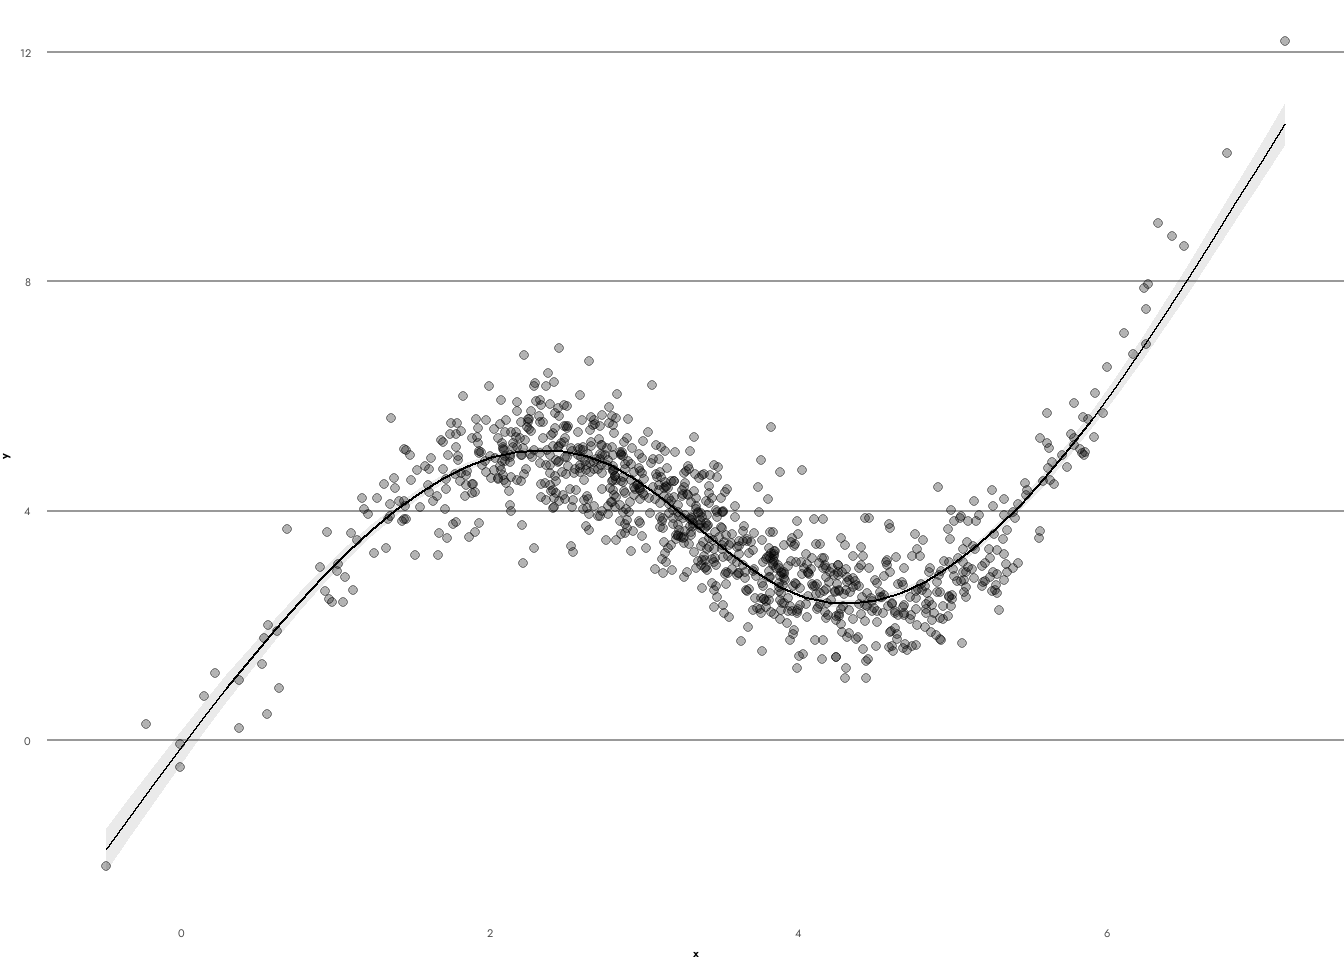
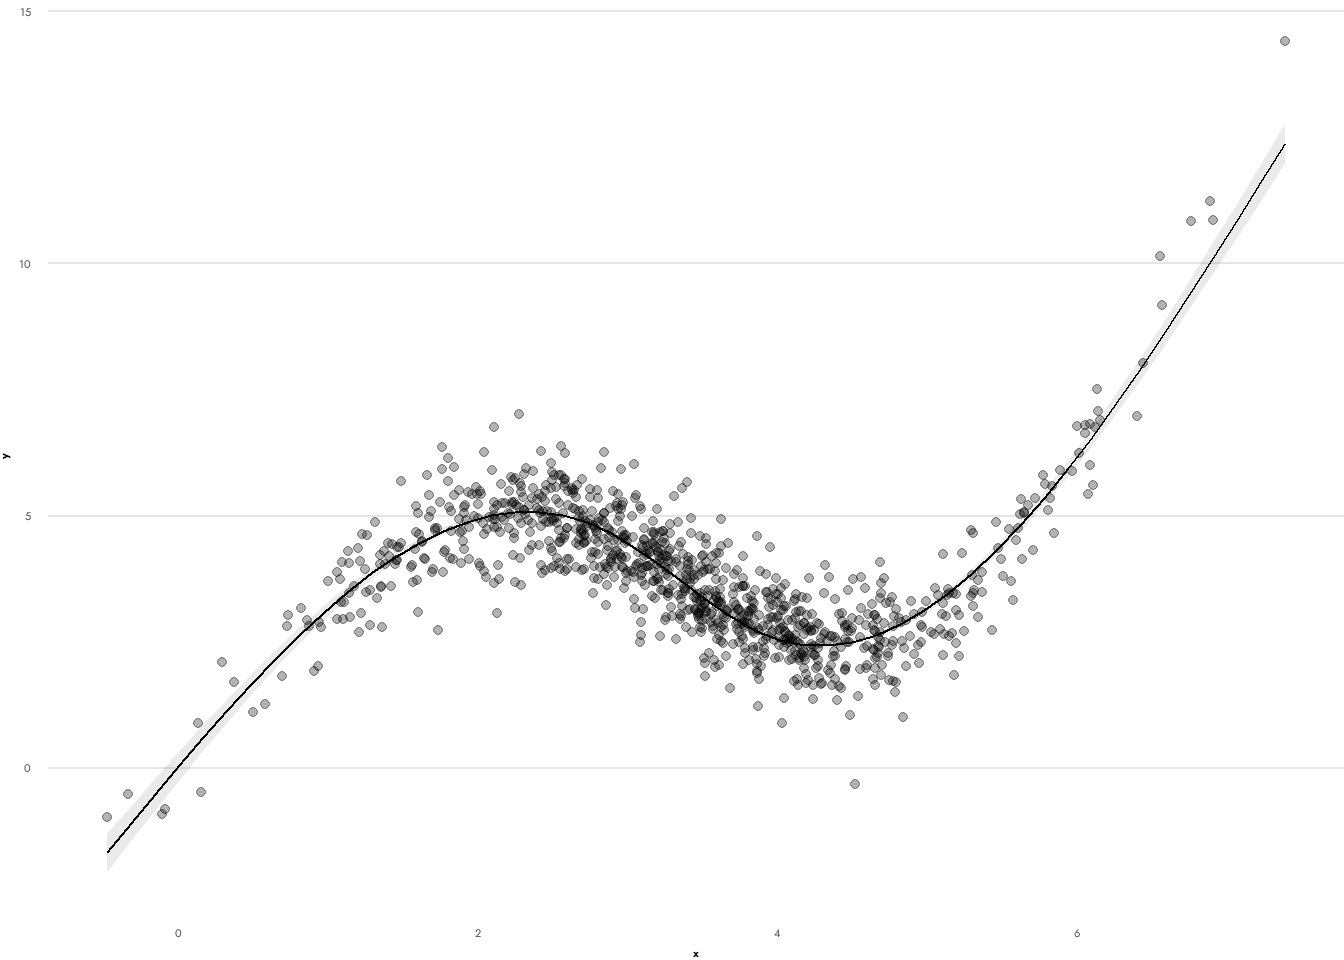
fix some stuff in chart types: too dark panel grid, some colors etc

Changed region(s): [[0.0312, 0.375, 1.0, 0.8125], [0.8438, 0.2188, 0.9062, 0.375], [0.0625, 0.8125, 0.125, 0.875]]

diff --git a/docs/chart_types.html b/docs/chart_types.html
@@ -328,13 +328,14 @@ Loading required package: showtextdb</code></pre>
 Bar plot work best with position dodge. The only thing to remember is to set the width right and add the position adjustment to any additional geoms used in the plot.</p>
 <div class="cell">
 <div class="sourceCode cell-code" id="cb7"><pre class="sourceCode r code-with-copy"><code class="sourceCode r"><span id="cb7-1"><a href="#cb7-1" aria-hidden="true" tabindex="-1"></a>bar_df<span class="sc">$</span>category_2 <span class="ot">&lt;-</span> <span class="fu">c</span>(<span class="fu">rep</span>(<span class="st">"a"</span>, <span class="dv">3</span>), <span class="fu">rep</span>(<span class="st">"b"</span>, <span class="dv">4</span>))</span>
-<span id="cb7-2"><a href="#cb7-2" aria-hidden="true" tabindex="-1"></a></span>
-<span id="cb7-3"><a href="#cb7-3" aria-hidden="true" tabindex="-1"></a>bar_df <span class="sc">%&gt;%</span></span>
-<span id="cb7-4"><a href="#cb7-4" aria-hidden="true" tabindex="-1"></a><span class="fu">ggplot</span>(<span class="fu">aes</span>(<span class="at">x =</span> category_2, <span class="at">y =</span> means, <span class="at">fill =</span> category)) <span class="sc">+</span></span>
-<span id="cb7-5"><a href="#cb7-5" aria-hidden="true" tabindex="-1"></a><span class="fu">geom_col</span>(<span class="at">width =</span> .<span class="dv">6</span>, <span class="at">position =</span> <span class="fu">position_dodge</span>(<span class="at">width =</span> .<span class="dv">6</span>)) <span class="sc">+</span></span>
-<span id="cb7-6"><a href="#cb7-6" aria-hidden="true" tabindex="-1"></a><span class="fu">geom_text</span>(<span class="fu">aes</span>(<span class="at">label =</span> means),<span class="at">position =</span> <span class="fu">position_dodge</span>(<span class="at">width =</span> .<span class="dv">6</span>), <span class="at">vjust =</span> <span class="sc">-</span><span class="dv">1</span>) <span class="sc">+</span></span>
-<span id="cb7-7"><a href="#cb7-7" aria-hidden="true" tabindex="-1"></a><span class="fu">scale_fill_manual</span>(<span class="at">values =</span> cbu_cat) <span class="sc">+</span></span>
-<span id="cb7-8"><a href="#cb7-8" aria-hidden="true" tabindex="-1"></a><span class="fu">theme_cbu</span>()</span></code><button title="Copy to Clipboard" class="code-copy-button"><i class="bi"></i></button></pre></div>
+<span id="cb7-2"><a href="#cb7-2" aria-hidden="true" tabindex="-1"></a>bar_df<span class="sc">$</span>category_3 <span class="ot">&lt;-</span> <span class="fu">c</span>(<span class="fu">rep</span>(<span class="fu">c</span>(<span class="st">"c"</span>, <span class="st">"d"</span>, <span class="st">"e"</span>), <span class="dv">2</span>), <span class="st">"f"</span>)</span>
+<span id="cb7-3"><a href="#cb7-3" aria-hidden="true" tabindex="-1"></a></span>
+<span id="cb7-4"><a href="#cb7-4" aria-hidden="true" tabindex="-1"></a>bar_df <span class="sc">%&gt;%</span></span>
+<span id="cb7-5"><a href="#cb7-5" aria-hidden="true" tabindex="-1"></a><span class="fu">ggplot</span>(<span class="fu">aes</span>(<span class="at">x =</span> category_2, <span class="at">y =</span> means, <span class="at">fill =</span> category_3)) <span class="sc">+</span></span>
+<span id="cb7-6"><a href="#cb7-6" aria-hidden="true" tabindex="-1"></a><span class="fu">geom_col</span>(<span class="at">width =</span> .<span class="dv">6</span>, <span class="at">position =</span> <span class="fu">position_dodge</span>(<span class="at">width =</span> .<span class="dv">6</span>)) <span class="sc">+</span></span>
+<span id="cb7-7"><a href="#cb7-7" aria-hidden="true" tabindex="-1"></a><span class="fu">geom_text</span>(<span class="fu">aes</span>(<span class="at">label =</span> means),<span class="at">position =</span> <span class="fu">position_dodge</span>(<span class="at">width =</span> .<span class="dv">6</span>), <span class="at">vjust =</span> <span class="sc">-</span><span class="dv">1</span>) <span class="sc">+</span></span>
+<span id="cb7-8"><a href="#cb7-8" aria-hidden="true" tabindex="-1"></a><span class="fu">scale_fill_manual</span>(<span class="at">values =</span> cbu_cat_1) <span class="sc">+</span></span>
+<span id="cb7-9"><a href="#cb7-9" aria-hidden="true" tabindex="-1"></a><span class="fu">theme_cbu</span>()</span></code><button title="Copy to Clipboard" class="code-copy-button"><i class="bi"></i></button></pre></div>
 <div class="cell-output-display">
 <div>
 <figure class="figure">
@@ -402,7 +403,8 @@ Option 2:</p>
 <span id="cb10-2"><a href="#cb10-2" aria-hidden="true" tabindex="-1"></a><span class="fu">ggplot</span>(<span class="fu">aes</span>(<span class="at">x =</span> <span class="fu">str_wrap</span>(item, <span class="dv">40</span>), <span class="at">y =</span> mean)) <span class="sc">+</span></span>
 <span id="cb10-3"><a href="#cb10-3" aria-hidden="true" tabindex="-1"></a><span class="fu">geom_col</span>(<span class="at">fill =</span> cbu_cat_1[<span class="dv">1</span>], <span class="at">width =</span> .<span class="dv">6</span>) <span class="sc">+</span></span>
 <span id="cb10-4"><a href="#cb10-4" aria-hidden="true" tabindex="-1"></a><span class="fu">geom_errorbar</span>(<span class="fu">aes</span>(<span class="at">x =</span> <span class="fu">str_wrap</span>(item, <span class="dv">40</span>), <span class="at">ymin =</span> mean <span class="sc">-</span> sd, <span class="at">ymax =</span> mean <span class="sc">+</span> sd),<span class="at">width =</span> .<span class="dv">2</span>) <span class="sc">+</span></span>
-<span id="cb10-5"><a href="#cb10-5" aria-hidden="true" tabindex="-1"></a><span class="fu">theme_cbu</span>()</span></code><button title="Copy to Clipboard" class="code-copy-button"><i class="bi"></i></button></pre></div>
+<span id="cb10-5"><a href="#cb10-5" aria-hidden="true" tabindex="-1"></a><span class="fu">theme_cbu</span>() <span class="sc">+</span></span>
+<span id="cb10-6"><a href="#cb10-6" aria-hidden="true" tabindex="-1"></a><span class="fu">theme</span>(<span class="at">panel.grid.major.y =</span> <span class="fu">element_line</span>(<span class="at">color =</span> <span class="st">"grey60"</span>, <span class="at">linewidth =</span> .<span class="dv">5</span>))</span></code><button title="Copy to Clipboard" class="code-copy-button"><i class="bi"></i></button></pre></div>
 <div class="cell-output-display">
 <div>
 <figure class="figure">
@@ -472,7 +474,7 @@ Option 2:</p>
 <span id="cb13-9"><a href="#cb13-9" aria-hidden="true" tabindex="-1"></a><span class="fu">geom_line</span>(<span class="at">linewidth =</span> <span class="fl">1.4</span>) <span class="sc">+</span></span>
 <span id="cb13-10"><a href="#cb13-10" aria-hidden="true" tabindex="-1"></a><span class="fu">scale_color_manual</span>(<span class="at">values =</span> cbu_cat_2) <span class="sc">+</span></span>
 <span id="cb13-11"><a href="#cb13-11" aria-hidden="true" tabindex="-1"></a><span class="fu">theme_cbu</span>() <span class="sc">+</span></span>
-<span id="cb13-12"><a href="#cb13-12" aria-hidden="true" tabindex="-1"></a><span class="fu">theme</span>(<span class="at">panel.grid.major.y =</span> <span class="fu">element_line</span>(<span class="at">color =</span> <span class="st">"grey60"</span>, <span class="at">linewidth =</span> .<span class="dv">5</span>))</span></code><button title="Copy to Clipboard" class="code-copy-button"><i class="bi"></i></button></pre></div>
+<span id="cb13-12"><a href="#cb13-12" aria-hidden="true" tabindex="-1"></a><span class="fu">theme</span>(<span class="at">panel.grid.major.y =</span> <span class="fu">element_line</span>(<span class="at">color =</span> <span class="st">"grey90"</span>, <span class="at">linewidth =</span> .<span class="dv">5</span>))</span></code><button title="Copy to Clipboard" class="code-copy-button"><i class="bi"></i></button></pre></div>
 <div class="cell-output-display">
 <div>
 <figure class="figure">
@@ -497,9 +499,9 @@ Option 2:</p>
 <span id="cb14-9"><a href="#cb14-9" aria-hidden="true" tabindex="-1"></a>df_scatter <span class="sc">%&gt;%</span></span>
 <span id="cb14-10"><a href="#cb14-10" aria-hidden="true" tabindex="-1"></a><span class="fu">ggplot</span>(<span class="fu">aes</span>(<span class="at">x =</span> x, <span class="at">y =</span> y, <span class="at">color =</span> cat)) <span class="sc">+</span></span>
 <span id="cb14-11"><a href="#cb14-11" aria-hidden="true" tabindex="-1"></a><span class="fu">geom_point</span>(<span class="at">alpha =</span> .<span class="dv">7</span>) <span class="sc">+</span></span>
-<span id="cb14-12"><a href="#cb14-12" aria-hidden="true" tabindex="-1"></a><span class="fu">scale_color_manual</span>(<span class="at">values =</span> cbu_cat_2[<span class="fu">c</span>(<span class="dv">2</span>,<span class="dv">4</span>)]) <span class="sc">+</span></span>
+<span id="cb14-12"><a href="#cb14-12" aria-hidden="true" tabindex="-1"></a><span class="fu">scale_color_manual</span>(<span class="at">values =</span> cbu_cat_2[<span class="fu">c</span>(<span class="dv">3</span>,<span class="dv">4</span>)]) <span class="sc">+</span></span>
 <span id="cb14-13"><a href="#cb14-13" aria-hidden="true" tabindex="-1"></a><span class="fu">theme_cbu</span>() <span class="sc">+</span></span>
-<span id="cb14-14"><a href="#cb14-14" aria-hidden="true" tabindex="-1"></a><span class="fu">theme</span>(<span class="at">panel.grid.major.y =</span> <span class="fu">element_line</span>(<span class="at">color =</span> <span class="st">"grey60"</span>, <span class="at">linewidth =</span> .<span class="dv">5</span>))</span></code><button title="Copy to Clipboard" class="code-copy-button"><i class="bi"></i></button></pre></div>
+<span id="cb14-14"><a href="#cb14-14" aria-hidden="true" tabindex="-1"></a><span class="fu">theme</span>(<span class="at">panel.grid.major.y =</span> <span class="fu">element_line</span>(<span class="at">color =</span> <span class="st">"grey90"</span>, <span class="at">linewidth =</span> .<span class="dv">5</span>))</span></code><button title="Copy to Clipboard" class="code-copy-button"><i class="bi"></i></button></pre></div>
 <div class="cell-output-display">
 <div>
 <figure class="figure">
@@ -530,7 +532,7 @@ Option 2:</p>
 <span id="cb15-10"><a href="#cb15-10" aria-hidden="true" tabindex="-1"></a><span class="fu">plot_predictions</span>(model_fit, <span class="at">condition =</span> <span class="st">"x"</span>) <span class="sc">+</span></span>
 <span id="cb15-11"><a href="#cb15-11" aria-hidden="true" tabindex="-1"></a><span class="fu">geom_point</span>(<span class="at">data =</span> fit_df, <span class="fu">aes</span>(<span class="at">x =</span> x, <span class="at">y =</span> y), <span class="at">alpha =</span> .<span class="dv">3</span>) <span class="sc">+</span></span>
 <span id="cb15-12"><a href="#cb15-12" aria-hidden="true" tabindex="-1"></a><span class="fu">theme_cbu</span>() <span class="sc">+</span></span>
-<span id="cb15-13"><a href="#cb15-13" aria-hidden="true" tabindex="-1"></a><span class="fu">theme</span>(<span class="at">panel.grid.major.y =</span> <span class="fu">element_line</span>(<span class="at">color =</span> <span class="st">"grey60"</span>, <span class="at">linewidth =</span> .<span class="dv">5</span>))</span></code><button title="Copy to Clipboard" class="code-copy-button"><i class="bi"></i></button></pre></div>
+<span id="cb15-13"><a href="#cb15-13" aria-hidden="true" tabindex="-1"></a><span class="fu">theme</span>(<span class="at">panel.grid.major.y =</span> <span class="fu">element_line</span>(<span class="at">color =</span> <span class="st">"grey90"</span>, <span class="at">linewidth =</span> .<span class="dv">5</span>))</span></code><button title="Copy to Clipboard" class="code-copy-button"><i class="bi"></i></button></pre></div>
 <div class="cell-output-display">
 <div>
 <figure class="figure">
@@ -555,7 +557,7 @@ Option 2:</p>
 <span id="cb16-9"><a href="#cb16-9" aria-hidden="true" tabindex="-1"></a><span class="fu">geom_col</span>(<span class="at">position =</span> <span class="fu">position_dodge</span>(<span class="at">width =</span> .<span class="dv">9</span>)) <span class="sc">+</span></span>
 <span id="cb16-10"><a href="#cb16-10" aria-hidden="true" tabindex="-1"></a><span class="fu">geom_text</span>(<span class="fu">aes</span>(<span class="at">label =</span> cor), <span class="at">position =</span> <span class="fu">position_dodge</span>(<span class="at">width =</span> .<span class="dv">9</span>), <span class="at">size =</span> <span class="dv">5</span>) <span class="sc">+</span></span>
 <span id="cb16-11"><a href="#cb16-11" aria-hidden="true" tabindex="-1"></a><span class="fu">coord_flip</span>() <span class="sc">+</span></span>
-<span id="cb16-12"><a href="#cb16-12" aria-hidden="true" tabindex="-1"></a><span class="fu">scale_fill_manual</span>(<span class="at">values =</span> cbu_cat_1) <span class="sc">+</span></span>
+<span id="cb16-12"><a href="#cb16-12" aria-hidden="true" tabindex="-1"></a><span class="fu">scale_fill_manual</span>(<span class="at">values =</span> cbu_cat_1[<span class="fu">c</span>(<span class="dv">2</span>,<span class="dv">3</span>)]) <span class="sc">+</span></span>
 <span id="cb16-13"><a href="#cb16-13" aria-hidden="true" tabindex="-1"></a><span class="fu">theme_cbu</span>() </span></code><button title="Copy to Clipboard" class="code-copy-button"><i class="bi"></i></button></pre></div>
 <div class="cell-output-display">
 <div>
@@ -581,11 +583,11 @@ Option 2:</p>
 <span id="cb17-9"><a href="#cb17-9" aria-hidden="true" tabindex="-1"></a><span class="fu">geom_line</span>(<span class="fu">aes</span>(<span class="at">group =</span> cat), <span class="at">color =</span> <span class="st">"grey60"</span>) <span class="sc">+</span></span>
 <span id="cb17-10"><a href="#cb17-10" aria-hidden="true" tabindex="-1"></a><span class="fu">geom_point</span>(<span class="at">size =</span> <span class="dv">3</span>) <span class="sc">+</span></span>
 <span id="cb17-11"><a href="#cb17-11" aria-hidden="true" tabindex="-1"></a><span class="fu">geom_text</span>(<span class="fu">aes</span>(<span class="at">label =</span> y), <span class="at">nudge_x =</span> .<span class="dv">2</span>) <span class="sc">+</span></span>
-<span id="cb17-12"><a href="#cb17-12" aria-hidden="true" tabindex="-1"></a><span class="fu">scale_color_manual</span>(<span class="at">values =</span> cbu_cat_1) <span class="sc">+</span></span>
+<span id="cb17-12"><a href="#cb17-12" aria-hidden="true" tabindex="-1"></a><span class="fu">scale_color_manual</span>(<span class="at">values =</span> cbu_cat_1[<span class="fu">c</span>(<span class="dv">1</span>,<span class="dv">4</span>)]) <span class="sc">+</span></span>
 <span id="cb17-13"><a href="#cb17-13" aria-hidden="true" tabindex="-1"></a><span class="fu">coord_flip</span>() <span class="sc">+</span></span>
 <span id="cb17-14"><a href="#cb17-14" aria-hidden="true" tabindex="-1"></a><span class="fu">theme_cbu</span>() <span class="sc">+</span></span>
 <span id="cb17-15"><a href="#cb17-15" aria-hidden="true" tabindex="-1"></a><span class="fu">theme</span>(<span class="at">panel.grid.major.y =</span> <span class="fu">element_blank</span>(),</span>
-<span id="cb17-16"><a href="#cb17-16" aria-hidden="true" tabindex="-1"></a>     <span class="at">panel.grid.major.x =</span> <span class="fu">element_line</span>(<span class="at">color =</span> <span class="st">"grey80"</span>))</span></code><button title="Copy to Clipboard" class="code-copy-button"><i class="bi"></i></button></pre></div>
+<span id="cb17-16"><a href="#cb17-16" aria-hidden="true" tabindex="-1"></a>     <span class="at">panel.grid.major.x =</span> <span class="fu">element_line</span>(<span class="at">color =</span> <span class="st">"grey90"</span>))</span></code><button title="Copy to Clipboard" class="code-copy-button"><i class="bi"></i></button></pre></div>
 <div class="cell-output-display">
 <div>
 <figure class="figure">

diff --git a/docs/index.html b/docs/index.html
@@ -145,7 +145,7 @@ ul.task-list li input[type="checkbox"] {
         <li class="sidebar-item">
   <div class="sidebar-item-container"> 
   <a href="./tutorial.html" class="sidebar-item-text sidebar-link">
- <span class="menu-text"><span class="chapter-number">6</span>&nbsp; <span class="chapter-title">tutorial.html</span></span></a>
+ <span class="menu-text"><span class="chapter-number">6</span>&nbsp; <span class="chapter-title">tutorial</span></span></a>
   </div>
 </li>
         <li class="sidebar-item">
